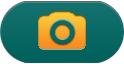
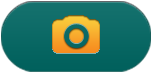
bigger camera button

diff --git a/SMImagePicker/SMOverlayView.m b/SMImagePicker/SMOverlayView.m
@@ -24,7 +24,7 @@
 		[overlayImageView release];
 		
 		UIButton *cameraButton = [UIButton buttonWithType:UIButtonTypeCustom];
-		cameraButton.frame = CGRectMake(130, 445, 0, 0);
+		cameraButton.frame = CGRectMake(122, 441, 0, 0);
 		[cameraButton setImage:[UIImage imageNamed:@"camera-normal.png"] forState:UIControlStateNormal];
 		[cameraButton setImage:[UIImage imageNamed:@"camera-press.png"] forState:UIControlStateHighlighted];
 		[cameraButton sizeToFit];
